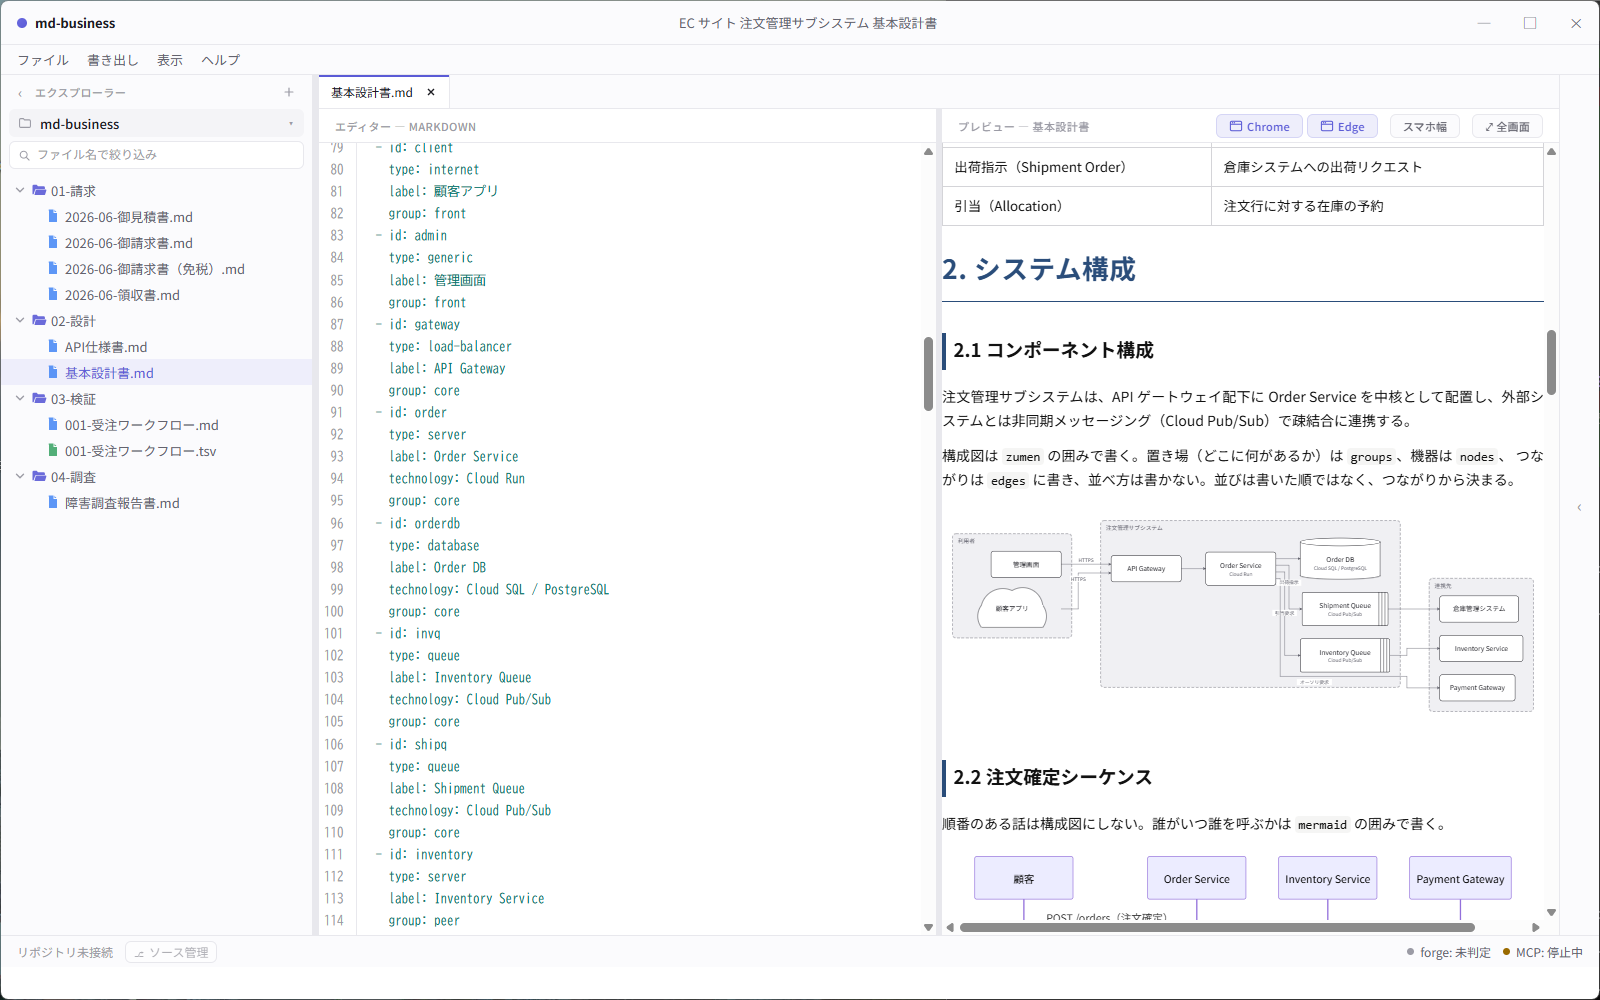
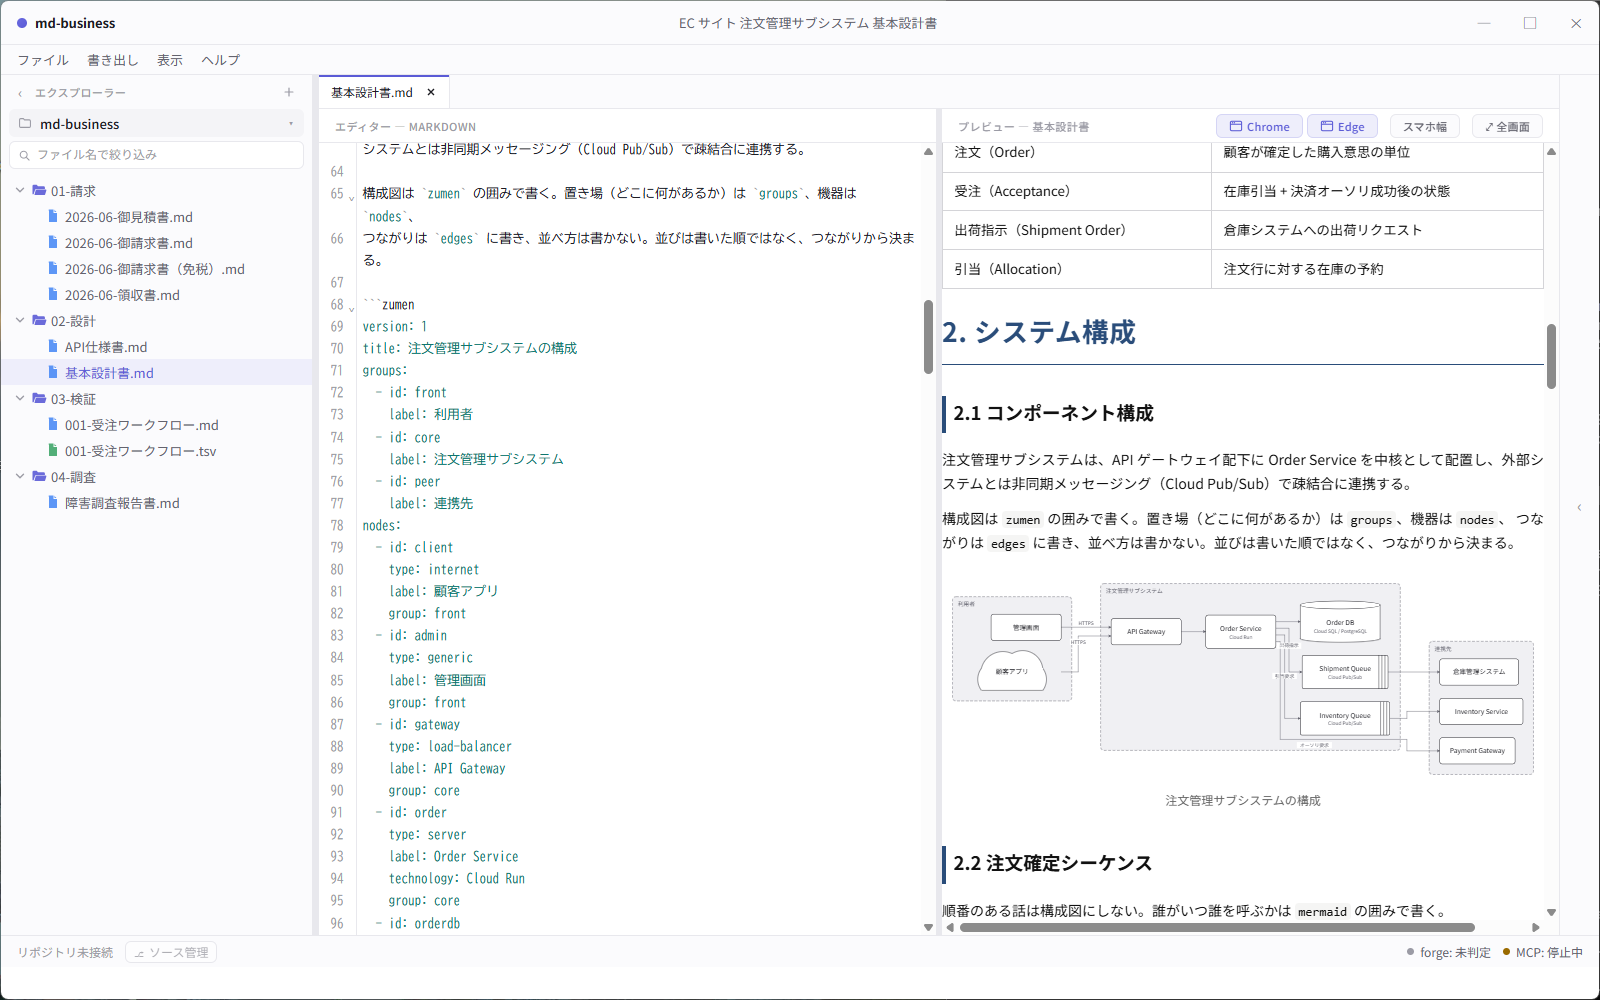
docs: 構成図の画面写真を、題名が図の下に出た状態に撮り直す

diff --git a/docs/index.html b/docs/index.html
@@ -115,7 +115,7 @@ PDF · Sheets · Chrome · desktop  ← how people actually read it</code></pre>
 
   <figure class="shot">
     <img src="screenshots/desktop-zumen.png" loading="lazy"
-         alt="The same basic design document, scrolled to its system architecture section. The left pane holds a fenced block of YAML listing nodes — an API gateway, an order service, an order database, two queues — with a type and a group on each. The right pane shows those same nodes drawn as a boxed architecture diagram, grouped into front end, the subsystem itself, and external services, with labelled arrows between them."
+         alt="The same basic design document, scrolled to its system architecture section. The left pane holds a fenced block of YAML listing nodes — an API gateway, an order service, an order database, two queues — with a type and a group on each. The right pane shows those same nodes drawn as a boxed architecture diagram, grouped into front end, the subsystem itself, and external services, with labelled arrows between them. Below the diagram sits its title, centred — the same line written in the block."
          width="1600" height="1000">
     <figcaption>
       Architecture diagrams come from the same source. You list what exists and what talks to what;

diff --git a/docs/ja/index.html b/docs/ja/index.html
@@ -113,7 +113,7 @@ PDF・Sheets・Chrome・デスクトップ ← 人が実際に読む形</code></
 
   <figure class="shot">
     <img src="../screenshots/desktop-zumen.png" loading="lazy"
-         alt="同じ基本設計書のシステム構成の節までスクロールした状態。左は囲みの中の YAML で、API ゲートウェイ・Order Service・Order DB・2 つのキューが、種類と置き場を付けて並んでいる。右は同じものが構成図として描かれ、利用者・サブシステム・連携先の 3 つの枠に分かれ、矢印に名前が付いている。"
+         alt="同じ基本設計書のシステム構成の節までスクロールした状態。左は囲みの中の YAML で、API ゲートウェイ・Order Service・Order DB・2 つのキューが、種類と置き場を付けて並んでいる。右は同じものが構成図として描かれ、利用者・サブシステム・連携先の 3 つの枠に分かれ、矢印に名前が付いている。図の下には、囲みに書いた題名が中央寄せで出ている。"
          width="1600" height="1000">
     <figcaption>
       構成図も本文から出る。何があって何と繋がるかを書くだけで、箱は置かない。
